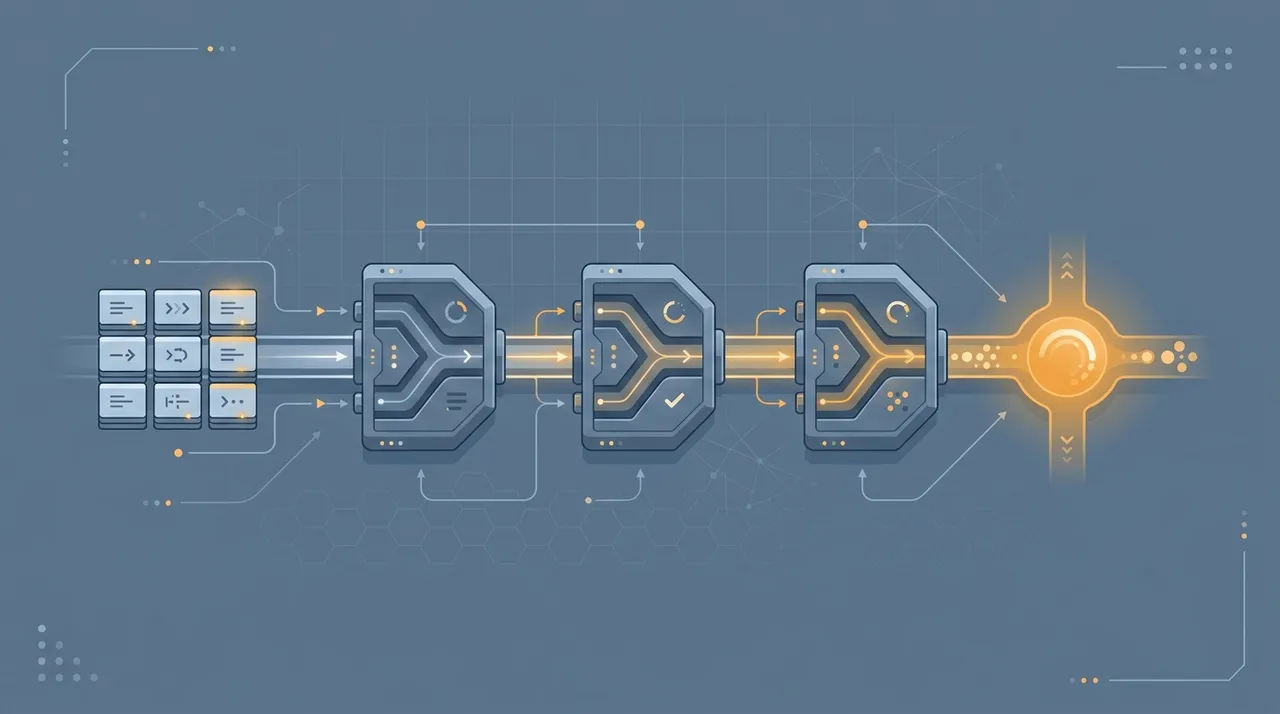
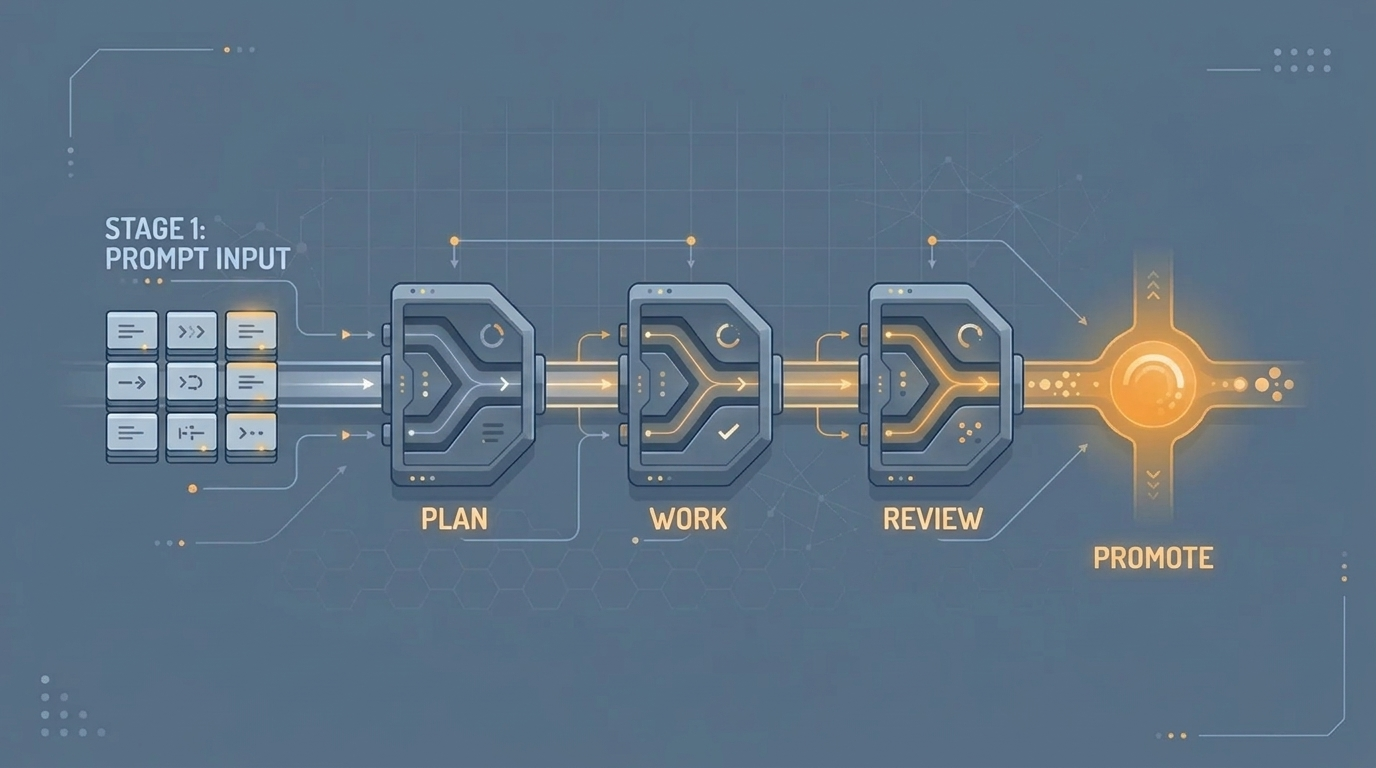
Update

diff --git a/src/relay/win-bin.ts b/src/relay/win-bin.ts
@@ -1,0 +1,48 @@
+import { existsSync } from "node:fs";
+import { delimiter, join } from "node:path";
+
+const SHIM_RE = /\.(cmd|bat)$/i;
+const DEFAULT_PATHEXT = ".COM;.EXE;.BAT;.CMD";
+
+// Windows CreateProcess appends only ".exe", so a bare "claude" that is really
+// the npm shim claude.cmd spawns ENOENT -- which read as "CLI not installed"
+// in the doctor probe. Resolve the name against PATH x PATHEXT ourselves.
+export function resolveBin(cmd0: string): string {
+  if (process.platform !== "win32") return cmd0;
+  if (cmd0.includes("/") || cmd0.includes("\\")) return cmd0;
+  const exts = (process.env.PATHEXT ?? DEFAULT_PATHEXT).split(";").filter(Boolean);
+  // An extension the user already wrote is authoritative; appending PATHEXT to
+  // it would look for claude.cmd.EXE and miss.
+  const named = exts.some((e) => cmd0.toLowerCase().endsWith(e.toLowerCase()));
+  const candidates = named ? [cmd0] : exts.map((e) => cmd0 + e);
+  for (const dir of (process.env.PATH ?? "").split(delimiter).filter(Boolean)) {
+    for (const cand of candidates) {
+      const p = join(dir, cand);
+      if (existsSync(p)) return p;
+    }
+  }
+  return cmd0;
+}
+
+// Each argument is wrapped in quotes with inner quotes doubled: cmd.exe reads a
+// quoted span as literal (no & | > parsing) and the MSVC runtime reads "" as one
+// literal quote. ponytail: %VAR% still expands inside quotes, so a prompt
+// containing %PATH% is corrupted (not injected); switch to a promptFile
+// template if that ever bites.
+const quote = (s: string) => `"${s.replace(/"/g, '""')}"`;
+
+// Node refuses to spawn .cmd/.bat without a shell (CVE-2024-27980), and
+// shell:true joins argv with plain spaces -- a multi-word prompt would shatter
+// into separate arguments. Build the cmd.exe command line here and hand it over
+// verbatim instead.
+export function winCommand(
+  cmd0: string, args: string[],
+): { file: string; args: string[]; verbatim: boolean } {
+  const exe = resolveBin(cmd0);
+  if (process.platform !== "win32" || !SHIM_RE.test(exe)) {
+    return { file: exe, args, verbatim: false };
+  }
+  const line = [exe, ...args].map(quote).join(" ");
+  // /s strips the outer quote pair and runs the rest as written.
+  return { file: process.env.ComSpec ?? "cmd.exe", args: ["/d", "/s", "/c", `"${line}"`], verbatim: true };
+}

diff --git a/tests/win-bin.test.ts b/tests/win-bin.test.ts
@@ -1,0 +1,44 @@
+import { execFile } from "node:child_process";
+import { dirname, join } from "node:path";
+import { fileURLToPath } from "node:url";
+import { promisify } from "node:util";
+import { afterEach, expect, test } from "vitest";
+import { resolveBin, winCommand } from "../src/relay/win-bin.js";
+
+const execFileAsync = promisify(execFile);
+const __dirname = dirname(fileURLToPath(import.meta.url));
+const FIXTURES = join(__dirname, "fixtures");
+const onWindows = process.platform === "win32";
+const winTest = test.skipIf(!onWindows);
+
+const originalPath = process.env.PATH;
+afterEach(() => { process.env.PATH = originalPath; });
+
+winTest("resolveBin finds a bare name that is really a .cmd shim on PATH", () => {
+  process.env.PATH = `${FIXTURES};${originalPath}`;
+  // PATHEXT is conventionally uppercase, and NTFS is case-insensitive.
+  expect(resolveBin("doctor-exit0").toLowerCase()).toBe(join(FIXTURES, "doctor-exit0.cmd").toLowerCase());
+});
+
+winTest("resolveBin leaves an unresolvable name alone", () => {
+  process.env.PATH = FIXTURES;
+  expect(resolveBin("no-such-binary-anywhere")).toBe("no-such-binary-anywhere");
+});
+
+test("resolveBin never rewrites an explicit path", () => {
+  const explicit = join(FIXTURES, "doctor-exit0.cmd");
+  expect(resolveBin(explicit)).toBe(explicit);
+});
+
+winTest("a .cmd shim actually spawns, with multi-word and metachar args intact", async () => {
+  const shim = join(FIXTURES, "echo-args.cmd");
+  const { file, args, verbatim } = winCommand(shim, ["two words", "a&b", 'has"quote']);
+  expect(verbatim).toBe(true);
+  const { stdout } = await execFileAsync(file, args, { windowsHide: true, windowsVerbatimArguments: verbatim });
+  expect(JSON.parse(stdout)).toEqual(["two words", "a&b", 'has"quote']);
+});
+
+test("winCommand passes a plain executable through untouched", () => {
+  const exe = join(FIXTURES, "fake-agent.mjs");
+  expect(winCommand(exe, ["--version"])).toEqual({ file: exe, args: ["--version"], verbatim: false });
+});

diff --git a/src/relay/doctor.ts b/src/relay/doctor.ts
@@ -3,6 +3,7 @@ import { basename, extname, join } from "node:path";
 import { homedir } from "node:os";
 import { promisify } from "node:util";
 import { readClaudeAccount, readCodexAccount } from "../system/agents.js";
+import { winCommand } from "./win-bin.js";
 import type { RelayConfig } from "./config.js";
 
 const execFileAsync = promisify(execFile);
@@ -30,8 +31,8 @@ const AUTH_READERS: Record<string, (homeDir: string) => boolean> = {
 
 // claude/kimi: no reliable local file (scope-dependent), so ask the CLI.
 async function cliMcpListHasVibeops(cmd0: string): Promise<boolean> {
-  const isWindowsScript = process.platform === "win32" && (cmd0.toLowerCase().endsWith(".cmd") || cmd0.toLowerCase().endsWith(".bat"));
-  const { stdout } = await execFileAsync(cmd0, ["mcp", "list"], { timeout: PROBE_TIMEOUT_MS, windowsHide: true, shell: isWindowsScript });
+  const { file, args, verbatim } = winCommand(cmd0, ["mcp", "list"]);
+  const { stdout } = await execFileAsync(file, args, { timeout: PROBE_TIMEOUT_MS, windowsHide: true, windowsVerbatimArguments: verbatim });
   return /vibeops/i.test(stdout);
 }
 
@@ -128,10 +129,10 @@ async function probeBinary(cmd0: string): Promise<ProbeStatus> {
     return { ok: false, error: "spawn ENOENT", spawnFailed: true };
   }
   const bin = binBasename(cmd0);
-  const args = PROBE_ARGS[bin] ?? DEFAULT_PROBE_ARGS;
+  const probeArgs = PROBE_ARGS[bin] ?? DEFAULT_PROBE_ARGS;
   try {
-    const isWindowsScript = process.platform === "win32" && (cmd0.toLowerCase().endsWith(".cmd") || cmd0.toLowerCase().endsWith(".bat"));
-    await execFileAsync(cmd0, args, { timeout: PROBE_TIMEOUT_MS, windowsHide: true, shell: isWindowsScript });
+    const { file, args, verbatim } = winCommand(cmd0, probeArgs);
+    await execFileAsync(file, args, { timeout: PROBE_TIMEOUT_MS, windowsHide: true, windowsVerbatimArguments: verbatim });
     return { ok: true };
   } catch (e) {
     const err = e as NodeJS.ErrnoException & { stderr?: string };

diff --git a/app/src/settings.browser.test.ts b/app/src/settings.browser.test.ts
@@ -3,7 +3,7 @@ import { afterEach, expect, test, vi } from "vitest";
 const { load } = vi.hoisted(() => ({ load: vi.fn() }));
 vi.mock("@tauri-apps/plugin-store", () => ({ load }));
 
-import { getSettings, saveSettings } from "./settings.js";
+import { getSettings, saveSettings, setReadTextFileImpl } from "./settings.js";
 
 const INTERNALS = "__TAURI_INTERNALS__";
 
@@ -53,4 +53,27 @@ test("saveSettings writes through the plugin store when Tauri bridge present", a
   expect(store.set).toHaveBeenCalledWith("baseUrl", "http://y");
   expect(store.set).toHaveBeenCalledWith("apiKey", "kk");
   expect(store.save).toHaveBeenCalledTimes(1);
+});
+
+test("getSettings picks up the sidecar credentials file when the store has no key", async () => {
+  (window as any)[INTERNALS] = {};
+  const store = {
+    get: vi.fn(async (k: string) => (k === "baseUrl" ? "http://localhost:8787" : "")),
+    set: vi.fn(),
+    save: vi.fn(),
+  };
+  load.mockResolvedValue(store);
+  const creds = { baseUrl: "http://localhost:8787", apiKey: "k".repeat(48) };
+  setReadTextFileImpl(async () => JSON.stringify(creds));
+  expect(await getSettings()).toEqual(creds);
+  expect(store.set).toHaveBeenCalledWith("apiKey", creds.apiKey);
+});
+
+test("getSettings returns the empty key when no credentials file exists yet", async () => {
+  (window as any)[INTERNALS] = {};
+  const store = { get: vi.fn(async () => ""), set: vi.fn(), save: vi.fn() };
+  load.mockResolvedValue(store);
+  setReadTextFileImpl(async () => { throw new Error("missing"); });
+  expect((await getSettings()).apiKey).toBe("");
+  expect(store.set).not.toHaveBeenCalled();
 });

diff --git a/tests/first-run.test.ts b/tests/first-run.test.ts
@@ -35,6 +35,11 @@ vi.mock("../src/relay/doctor.js", () => ({
   ]
 }));
 
+// The SDK lane is gated on a real Claude Code login, which the CI box may or
+// may not have; both states are asserted below by flipping this.
+let sdkCredentials = true;
+vi.mock("../src/relay/invoke-sdk.js", () => ({ hasCredentials: () => sdkCredentials }));
+
 test("first-run endpoint and relay/bootstrap", async () => {
   const h = { Authorization: `Bearer ${apiKey}` };
 
@@ -63,4 +68,20 @@ test("first-run endpoint and relay/bootstrap", async () => {
   res = await app.request("/system/first-run", { headers: h });
   data = await res.json();
   expect(data.firstRun).toBe(false);
+});
+
+test("relay/bootstrap adds the sdk work lane when Claude credentials exist", async () => {
+  const h = { Authorization: `Bearer ${apiKey}` };
+  sdkCredentials = true;
+  expect((await app.request("/relay/bootstrap", { method: "POST", headers: h })).status).toBe(200);
+  const cfg = JSON.parse(fs.readFileSync(path.join(tempHome, "relay.json"), "utf-8"));
+  expect(cfg.agents["claude-sdk"]).toEqual({ type: "sdk", roles: ["work"] });
+});
+
+test("relay/bootstrap omits the sdk lane when there are no Claude credentials", async () => {
+  const h = { Authorization: `Bearer ${apiKey}` };
+  sdkCredentials = false;
+  expect((await app.request("/relay/bootstrap", { method: "POST", headers: h })).status).toBe(200);
+  const cfg = JSON.parse(fs.readFileSync(path.join(tempHome, "relay.json"), "utf-8"));
+  expect(cfg.agents["claude-sdk"]).toBeUndefined();
 });

diff --git a/src/relay/invoke.ts b/src/relay/invoke.ts
@@ -6,6 +6,7 @@ import { tmpdir } from "node:os";
 import { join, dirname } from "node:path";
 import type { RelayAgent } from "./config.js";
 import { pidAlive } from "../db/lifecycle.js";
+import { winCommand } from "./win-bin.js";
 
 const OUTPUT_CAP = 100_000;
 const DEFAULT_TIMEOUT_MS = 30 * 60_000;
@@ -128,9 +129,10 @@ export async function runAgent(
     return await new Promise((resolve) => {
       // stdin ignored unless piping the prompt: headless CLIs (codex exec)
       // otherwise block reading an open stdin.
+      const { file, args, verbatim } = winCommand(cmd0, rest);
       const child = outFd !== undefined
-        ? spawn(cmd0, rest, { cwd: workdir, env: childEnv, stdio: [viaStdin ? "pipe" : "ignore", outFd, outFd], detached: true, windowsHide: true })
-        : spawn(cmd0, rest, { cwd: workdir, env: childEnv, stdio: [viaStdin ? "pipe" : "ignore", "pipe", "pipe"], windowsHide: true });
+        ? spawn(file, args, { cwd: workdir, env: childEnv, stdio: [viaStdin ? "pipe" : "ignore", outFd, outFd], detached: true, windowsHide: true, windowsVerbatimArguments: verbatim })
+        : spawn(file, args, { cwd: workdir, env: childEnv, stdio: [viaStdin ? "pipe" : "ignore", "pipe", "pipe"], windowsHide: true, windowsVerbatimArguments: verbatim });
       // Detached child must not keep the parent's event loop alive; the run still
       // awaits its exit via the listeners below (unref drops only the keep-alive
       // ref, not the handlers). This is what lets an API restart leave the child

diff --git a/app/src/main.tsx b/app/src/main.tsx
@@ -4,7 +4,7 @@ import "./index.css";
 import { QueryClientProvider } from "@tanstack/react-query";
 import { createRootRoute, createRoute, createRouter, redirect, RouterProvider } from "@tanstack/react-router";
 import { queryClient, setAuthErrorHandler } from "./lib/queryClient.js";
-import { getSettings, saveSettings, detectLocalNode } from "./settings.js";
+import { getSettings } from "./settings.js";
 import { Root } from "./routes/root.js";
 import { ListScreen } from "./routes/list.js";
 import { DetailScreen } from "./routes/detail.js";
@@ -19,15 +19,14 @@ const rootRoute = createRootRoute({
   component: Root,
   beforeLoad: async ({ location }) => {
     if (location.pathname === "/settings") return;
-    const { apiKey } = await getSettings();
-    if (!apiKey) {
-      const found = await detectLocalNode();
-      if (found) {
-        await saveSettings(found);
-        return;
-      }
-      throw redirect({ to: "/settings" });
+    // getSettings picks up the sidecar's credentials file on its own; on a
+    // first launch that file lands seconds after the window does, so wait for
+    // the boot rather than stranding the user in Settings with an empty key.
+    for (let i = 0; i < 20; i++) {
+      if ((await getSettings()).apiKey) return;
+      await new Promise((r) => setTimeout(r, 500));
     }
+    throw redirect({ to: "/settings" });
   },
 });
 

diff --git a/app/src/settings.ts b/app/src/settings.ts
@@ -31,6 +31,16 @@ export async function getSettings(): Promise<Settings> {
   const store = await load(FILE, { autoSave: false, defaults: {} });
   const baseUrl = (await store.get<string>("baseUrl")) ?? "http://localhost:8787";
   const apiKey = (await store.get<string>("apiKey")) ?? "";
+  // The sidecar writes credentials.json part-way through its first boot, long
+  // after the webview has loaded. Re-check on every read with no key, or a
+  // first launch that lost the race 401s forever with no way back.
+  if (!apiKey) {
+    const found = await detectLocalNode();
+    if (found) {
+      await saveSettings(found);
+      return found;
+    }
+  }
   return { baseUrl, apiKey };
 }
 

diff --git a/src/api/app.ts b/src/api/app.ts
@@ -566,6 +566,12 @@ app.post("/relay/bootstrap", requireAdmin, async (c) => {
     }
   }
 
+  // The SDK lane spawns no binary, so a machine where every CLI probe failed
+  // (a fresh install with no CLIs on PATH) still gets a working work lane from
+  // the Claude Code login that is already on this machine.
+  const { hasCredentials } = await import("../relay/invoke-sdk.js");
+  if (hasCredentials()) passedAgents["claude-sdk"] = { type: "sdk", roles: ["work"] };
+
   const newConfig = { workdir: join(homedir(), ".vibeops", "sandbox"), agents: passedAgents };
   writeFileSync(relayPath, JSON.stringify(newConfig, null, 2), "utf-8");
   return c.json({ config: newConfig });

diff --git a/src/relay/invoke-sdk.ts b/src/relay/invoke-sdk.ts
@@ -51,7 +51,7 @@ export function checkToolPermission(
 
 // ponytail: env token OR the CLI login file. macOS Keychain-only logins aren't
 // file-checkable here and fall through to the SDK auth error at run time.
-function hasCredentials(): boolean {
+export function hasCredentials(): boolean {
   if (process.env.CLAUDE_CODE_OAUTH_TOKEN) return true;
   return existsSync(path.join(homedir(), ".claude", ".credentials.json"));
 }

diff --git a/docs/AGENT_CLIS.md b/docs/AGENT_CLIS.md
@@ -147,6 +147,10 @@ unrestricted; other tools are denied and logged as
 
 To fall back, change `"type"` to `"cli"` (with a `cmd`) or remove the agent.
 
+First-run setup writes this lane for you as `claude-sdk` whenever a Claude Code
+login is present on the machine, so a fresh install has a work lane even when no
+agent CLI is on `PATH`.
+
 ---
 
 ## Sandbox containment
